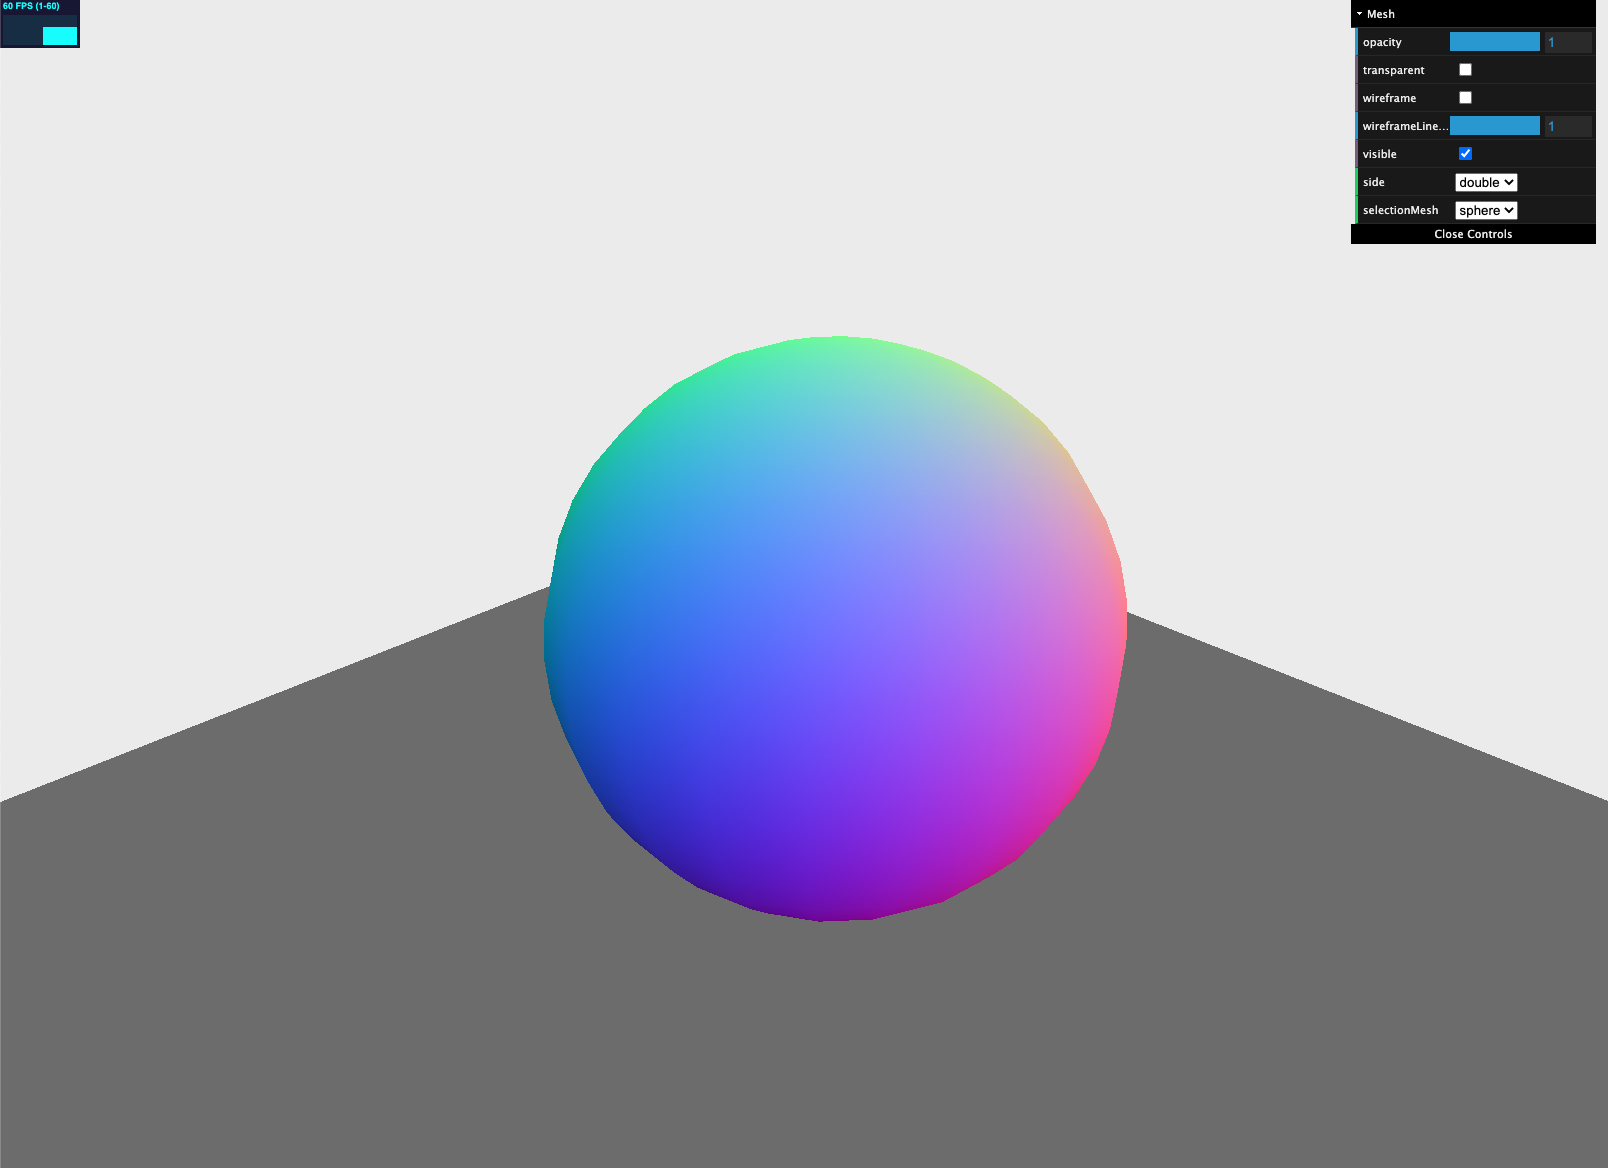
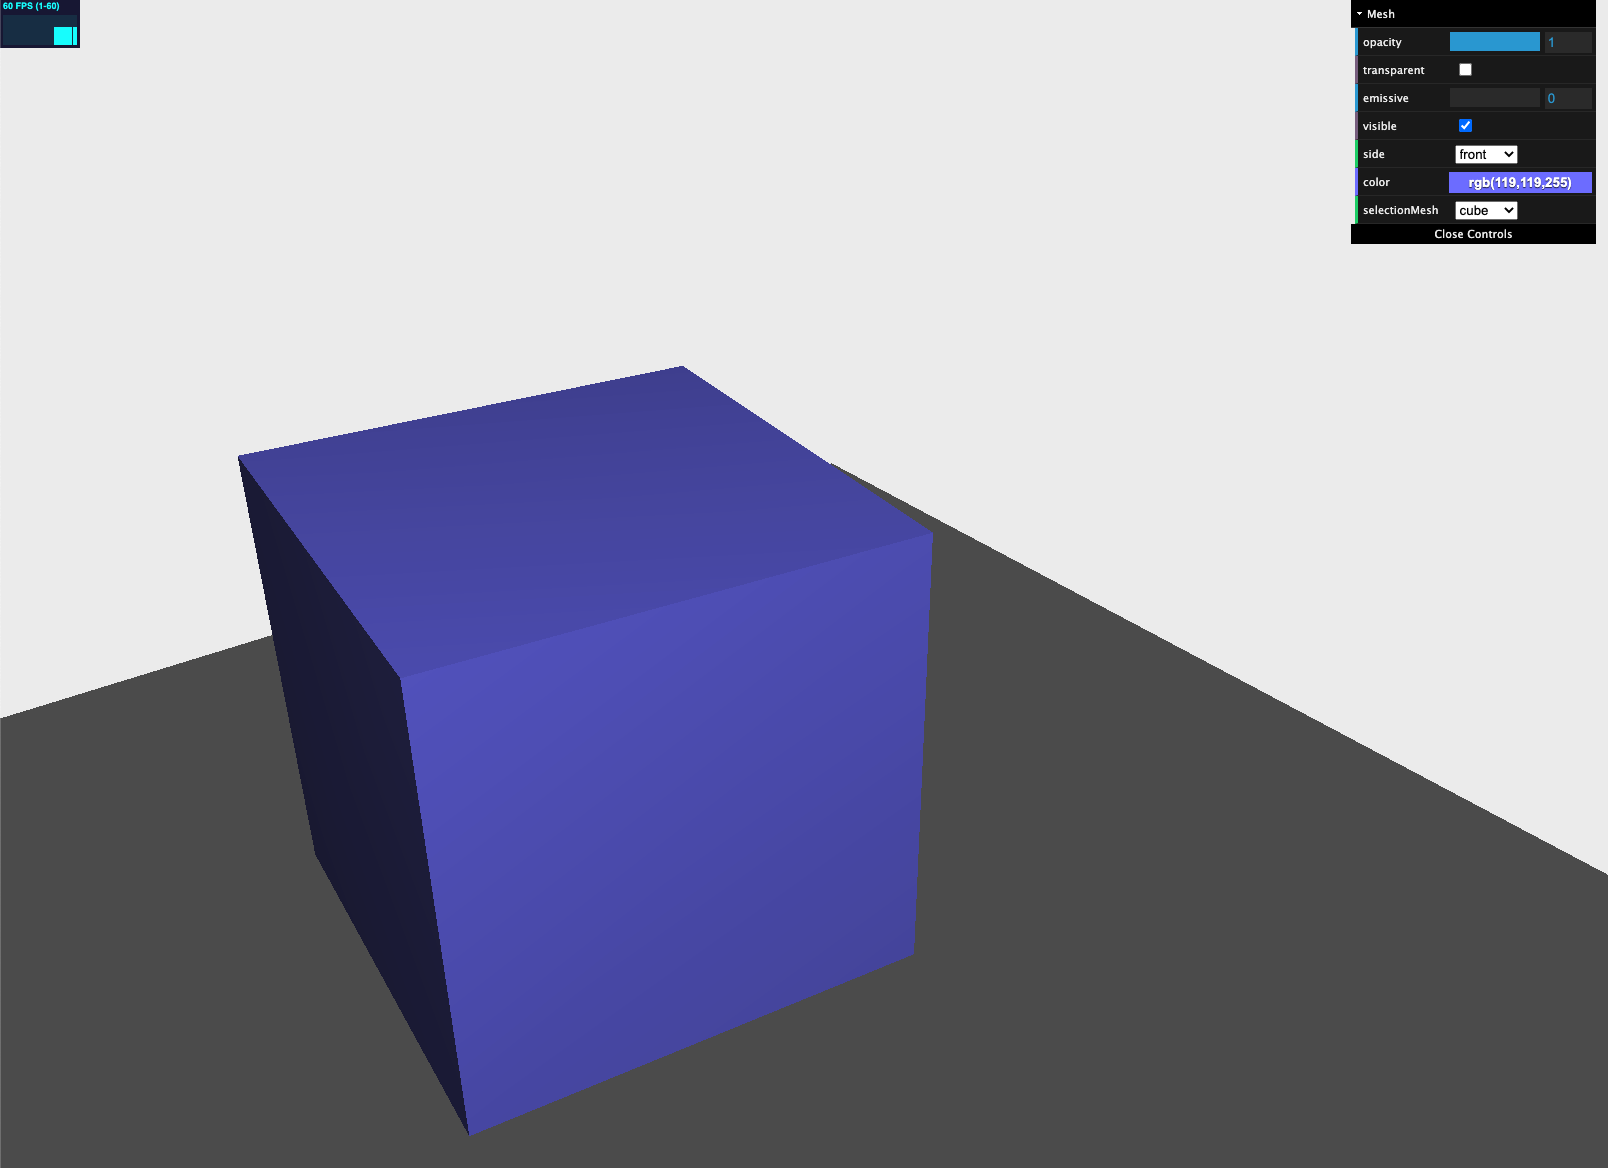
2-3-1 completed

diff --git a/Learning Three.js, 2nd Edition/chapter-04/4-3-1.mesh-lambert-material/src/index.js b/Learning Three.js, 2nd Edition/chapter-04/4-3-1.mesh-lambert-material/src/index.js
@@ -11,10 +11,10 @@ const scene = new THREE.Scene();
 
 // [Camera]カメラの作成
 let camera = new THREE.PerspectiveCamera(45, window.innerWidth / window.innerHeight, 0.1, 1000);
-camera.position.x = -50;
-camera.position.y = 40;
-camera.position.z = 50;
-camera.lookAt(scene.position);
+camera.position.x = -20;
+camera.position.y = 30;
+camera.position.z = 40;
+camera.lookAt(new THREE.Vector3(10, 0, 0));
 scene.add(camera);
 
 // [Renderer]レンダラ
@@ -26,7 +26,7 @@ document.getElementById("WebGL-output").appendChild(renderer.domElement);
 
 // [Mesh]床面
 const groundGeometry = new THREE.PlaneGeometry(100, 100, 4, 4);
-const ground = new THREE.Mesh(groundGeometry, new THREE.MeshBasicMaterial({ color: 0x777777 }));
+const ground = new THREE.Mesh(groundGeometry, new THREE.MeshBasicMaterial({ color: 0x555555 }));
 ground.rotation.x = -Math.PI / 2;
 ground.position.y = -20;
 ground.name = "Ground";
@@ -36,22 +36,11 @@ scene.add(ground);
 const sphereGeometry = new THREE.SphereGeometry(14, 20, 20);
 const cubeGeometry = new THREE.BoxGeometry(15, 15, 15);
 const planeGeometry = new THREE.PlaneGeometry(14, 14, 4, 4);
-const meshMatelial = new THREE.MeshNormalMaterial();
+const meshMatelial = new THREE.MeshLambertMaterial({ color: 0x7777ff });
 
 const sphere = new THREE.Mesh(sphereGeometry, meshMatelial);
 const cube = new THREE.Mesh(cubeGeometry, meshMatelial);
 const plane = new THREE.Mesh(planeGeometry, meshMatelial);
-
-// NOTICE! Three.js r125 removed support for Geometry.
-// for (let f = 0, fl = sphere.geometry.faces.length; f < fl; f++) {
-//   const face = sphere.geometry.faces[f];
-//   const centroid = new THREE.Vector3(0, 0, 0);
-//   centroid.add(sphere.geometry.vertices[face.a]);
-//   centroid.add(sphere.geometry.vertices[face.b]);
-//   centroid.add(sphere.geometry.vertices[face.c]);
-//   centroid.divideScalar(3);
-//   const arrow = new THREE.ArrowHelper(face.normal, centroid, 2, 0x3333ff, 0.5, 0.5);
-// }
 
 sphere.position.x = 0;
 sphere.position.y = 3;
@@ -73,7 +62,7 @@ scene.add(ambientLight);
 
 // [Light]spot light
 const spotLight = new THREE.SpotLight(0xffffff);
-spotLight.position.set(-40, 60, -10);
+spotLight.position.set(-30, 60, 60);
 spotLight.castShadow = true;
 scene.add(spotLight);
 
@@ -82,9 +71,9 @@ const controls = new (function () {
   this.opacity = meshMatelial.opacity;
   this.transparent = meshMatelial.transparent;
   this.visible = meshMatelial.visible;
+  this.emissive = meshMatelial.emissive.getHex();
   this.side = "front";
-  this.wireframe = meshMatelial.wireframe;
-  this.wireframeLinewidth = meshMatelial.wireframeLinewidth;
+  this.color = meshMatelial.color.getStyle();
   this.selectionMesh = "cube";
 })();
 
@@ -96,11 +85,8 @@ spGui.add(controls, "opacity", 0, 1).onChange(function (e) {
 spGui.add(controls, "transparent", 0, 1).onChange(function (e) {
   meshMatelial.transparent = e;
 });
-spGui.add(controls, "wireframe", 0, 1).onChange(function (e) {
-  meshMatelial.wireframe = e;
-});
-spGui.add(controls, "wireframeLinewidth", 0, 1).onChange(function (e) {
-  meshMatelial.wireframeLinewidth = e;
+spGui.add(controls, "emissive", 0, 1).onChange(function (e) {
+  meshMatelial.emissive = new THREE.Color(e);
 });
 spGui.add(controls, "visible", 0, 1).onChange(function (e) {
   meshMatelial.visible = e;
@@ -120,6 +106,10 @@ spGui.add(controls, "side", ["front", "back", "double"]).onChange(function (e) {
       meshMatelial.side = THREE.FrontSide;
       break;
   }
+  meshMatelial.needsUpdate = true;
+});
+spGui.addColor(controls, "color").onChange(function (e) {
+  meshMatelial.color.setStyle(e);
 });
 spGui.add(controls, "selectionMesh", ["cube", "sphere", "plane"]).onChange(function (e) {
   scene.remove(cube);
